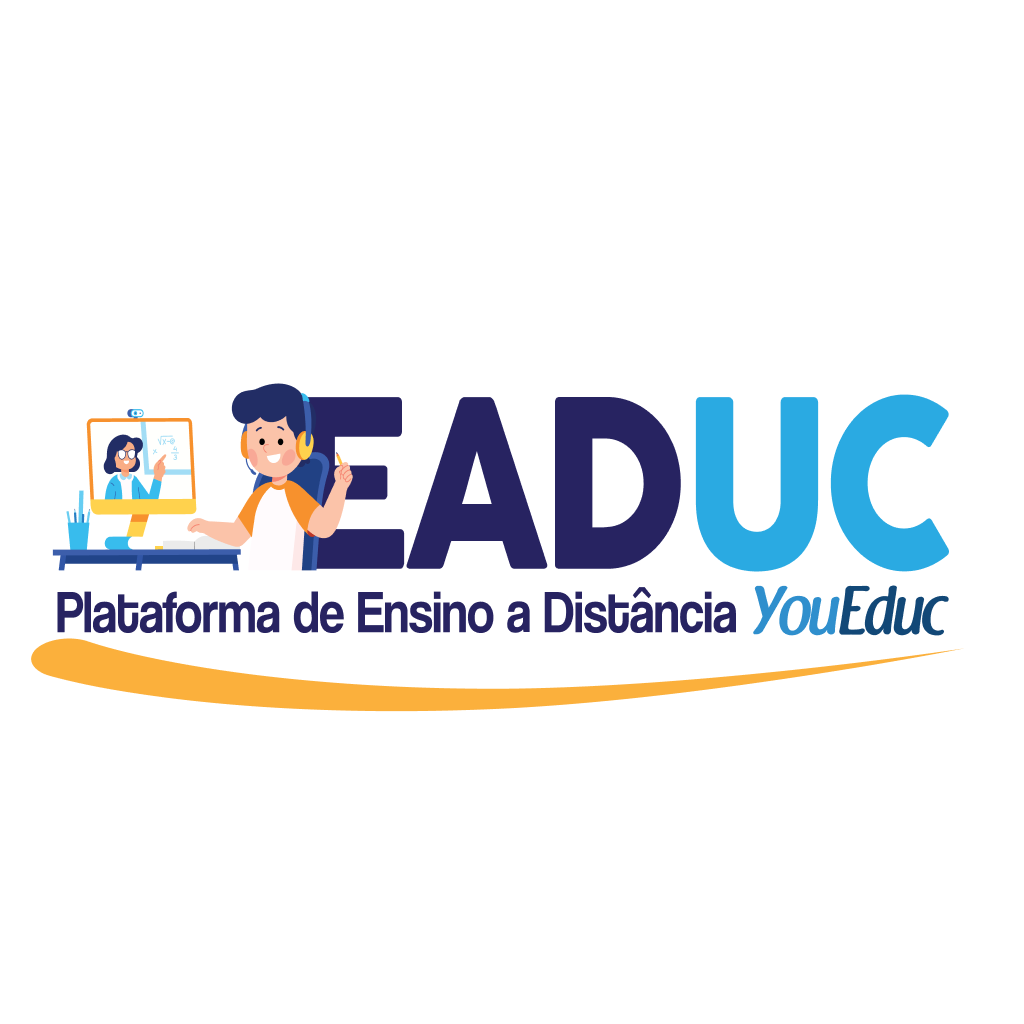
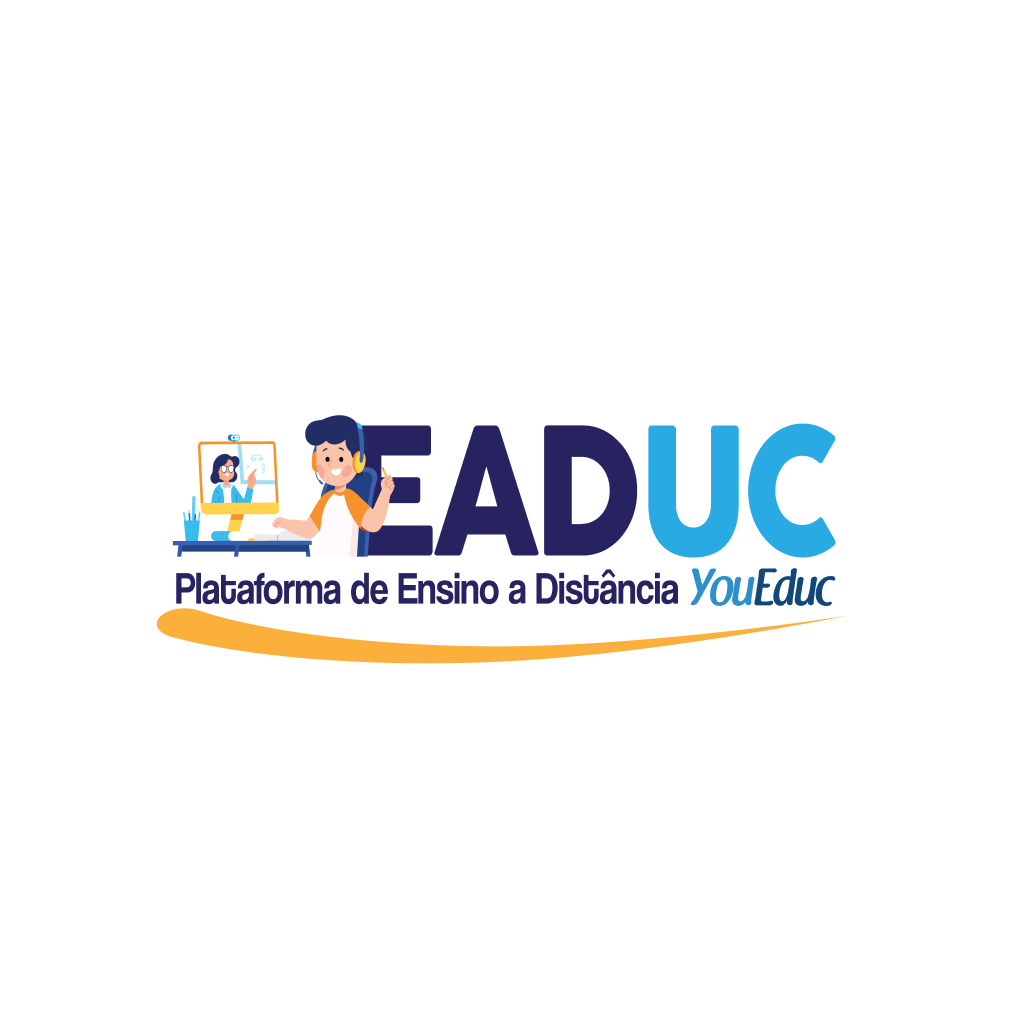
changing layout to linear gradient

Changed region(s): [[0.0312, 0.375, 0.9375, 0.7188]]

diff --git a/src/screens/SignIn/index.tsx b/src/screens/SignIn/index.tsx
@@ -4,6 +4,7 @@ import { View, Text, Image, StatusBar, Linking, Alert } from 'react-native';
 import IllustrationImg from '../../assets/illustration.png'
 import { styles } from "./styles";
 import { ButtonIcon } from "../../components/Buttonicon";
+import { LinearGradient } from "expo-linear-gradient";
 
 export function SignIn() {
   const eaducURL = "https://moodle.youeduc.com.br/moodle/login/index.php";
@@ -20,6 +21,9 @@ export function SignIn() {
 
   return (
     <View style={styles.container}>
+      <LinearGradient
+        colors= {['#87CFE0', '#FFFFFF']}
+      >
       <StatusBar
         barStyle="light-content"
         backgroundColor="transparent"
@@ -34,8 +38,9 @@ export function SignIn() {
         <ButtonIcon title="Acessar Plataforma"
           activeOpacity={0.3}
           onPress={handlePress}
-        />
+          />
       </View>
+    </LinearGradient>
     </View>
   )
 }

diff --git a/src/screens/SignIn/styles.ts b/src/screens/SignIn/styles.ts
@@ -4,12 +4,13 @@ import { theme } from "../../global/styles/theme";
 export const styles = StyleSheet.create({
   container: {
     flex: 1,
-    alignItems: 'center',
-    backgroundColor : theme.colors.background
+    //alignItems: 'center',
+    //backgroundColor : theme.colors.background
   },
-  image: {
+  image: {    
+    alignSelf: 'center',
     width: 332,
-    height: 209,
+    height: 185,
     marginBottom: 50,
     marginTop: 300,
   },
@@ -22,6 +23,5 @@ export const styles = StyleSheet.create({
     textAlign: 'center',
     fontSize: 30,
     marginBottom: 16,
-  }
-
+  },
 });

diff --git a/src/global/styles/theme.ts b/src/global/styles/theme.ts
@@ -1,8 +1,8 @@
 export const theme = {
-  colors:{
+    colors:{
     background: "#A2CCD6",
     primary: '#F19034',
     heading: '#DDE3F0',
     line: '#BF6F00'
-  }
+  },
 }
